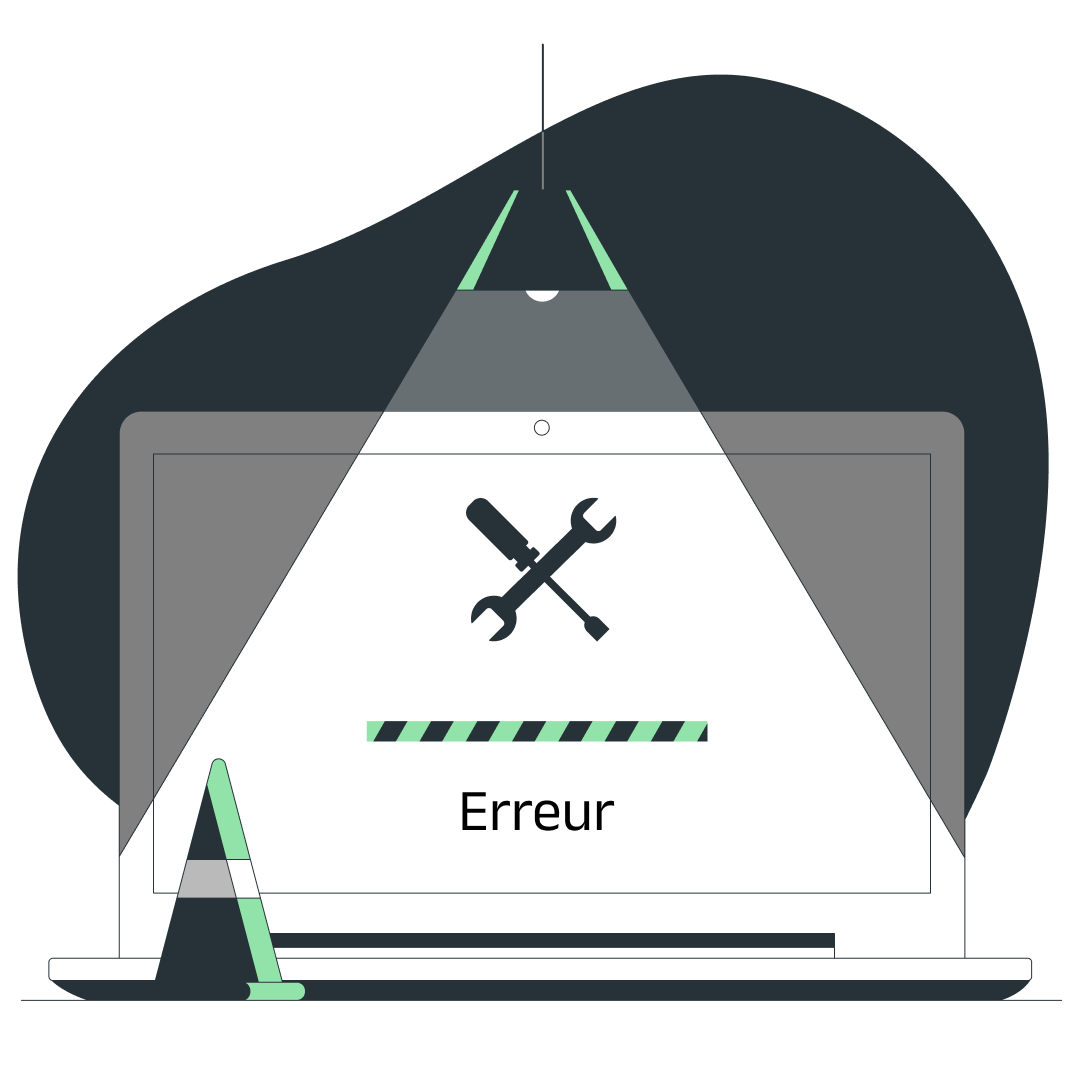
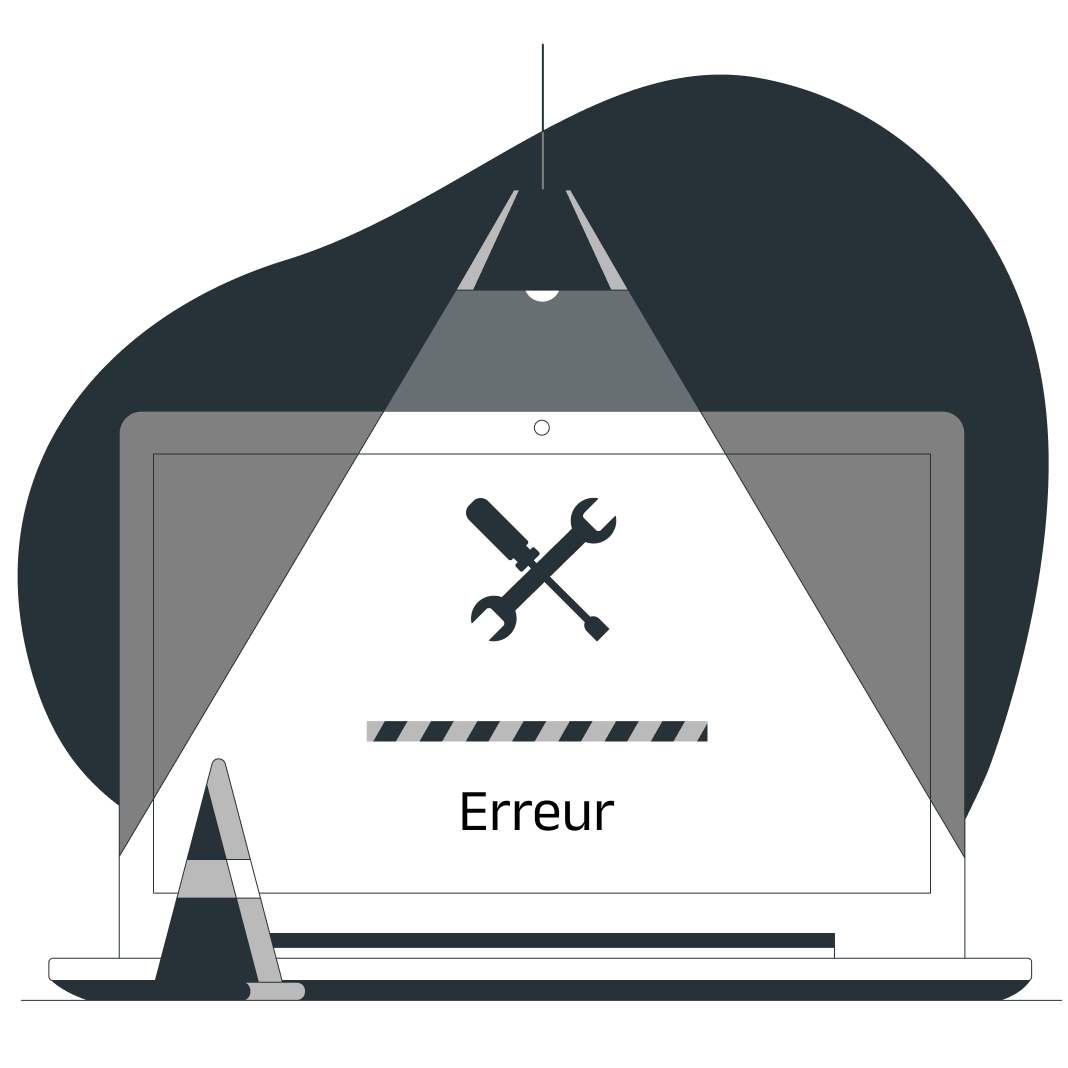
add student static pages and error image-componenent

diff --git a/app/student/pages/schoolrules.tsx b/app/student/pages/schoolrules.tsx
@@ -8,7 +8,7 @@ import LoadingComp from "@/components/LoadingComp";
 import { downloadImage } from "@/lib/downloadImage";
 import ErrorComp from "@/components/ErrorComp";
 
-export default function Planning() {
+export default function SchoolRules() {
   const [image, setImage] = useState("");
   const { data, isPending, isError } = useQuery({
     queryKey: ["planning"],
@@ -39,7 +39,7 @@ export default function Planning() {
   return (
     <View className="bg-white flex-1 items-center">
       <Text className="p-4 font-psemibold text-base text-darkestGray">
-        Emploi du temps
+        Reglement Intérieur
       </Text>
       {!image || !data ? (
         // <BlankComp />
@@ -50,8 +50,8 @@ export default function Planning() {
             <Image
               className={`w-full h-full`}
               source={{ uri: image }}
-              accessibilityLabel="planning table"
               resizeMode="cover"
+              accessibilityLabel="planning table"
             />
           </View>
         </>

diff --git a/app/student/pages/examcalendar.tsx b/app/student/pages/examcalendar.tsx
@@ -8,7 +8,7 @@ import LoadingComp from "@/components/LoadingComp";
 import { downloadImage } from "@/lib/downloadImage";
 import ErrorComp from "@/components/ErrorComp";
 
-export default function Planning() {
+export default function ExamCalendar() {
   const [image, setImage] = useState("");
   const { data, isPending, isError } = useQuery({
     queryKey: ["planning"],
@@ -39,7 +39,7 @@ export default function Planning() {
   return (
     <View className="bg-white flex-1 items-center">
       <Text className="p-4 font-psemibold text-base text-darkestGray">
-        Emploi du temps
+        Calendrier des examens
       </Text>
       {!image || !data ? (
         // <BlankComp />

diff --git a/app/student/pages/profmodule.tsx b/app/student/pages/profmodule.tsx
@@ -8,7 +8,7 @@ import LoadingComp from "@/components/LoadingComp";
 import { downloadImage } from "@/lib/downloadImage";
 import ErrorComp from "@/components/ErrorComp";
 
-export default function Planning() {
+export default function SchoolRules() {
   const [image, setImage] = useState("");
   const { data, isPending, isError } = useQuery({
     queryKey: ["planning"],
@@ -39,7 +39,7 @@ export default function Planning() {
   return (
     <View className="bg-white flex-1 items-center">
       <Text className="p-4 font-psemibold text-base text-darkestGray">
-        Emploi du temps
+        Tableau Prof-matière
       </Text>
       {!image || !data ? (
         // <BlankComp />

diff --git a/app/student/(tabs)/index.tsx b/app/student/(tabs)/index.tsx
@@ -64,7 +64,7 @@ export default function HomeScreen() {
             style={styles.Card}
           >
             <FeatureCard
-              pathTo="planning"
+              pathTo="schoolrules"
               from="student"
               title="Règlement Intérieur"
               icon={
@@ -77,7 +77,7 @@ export default function HomeScreen() {
               description="Consultez les règles et politiques de l’école."
             />
             <FeatureCard
-              pathTo="planning"
+              pathTo="examcalendar"
               from="student"
               title="calendrier des examens"
               icon={

diff --git a/components/ErrorComp.tsx b/components/ErrorComp.tsx
@@ -1,0 +1,17 @@
+import LottieView from "lottie-react-native";
+import { Image, Text, View } from "react-native";
+
+export default function ErrorComp() {
+  return (
+    <View className="w-full flex-1 items-center pt-[25%] bg-white">
+      <Image
+        source={require("@/assets/images/error.png")}
+        resizeMode="contain"
+        className="w-full h-1/2 border"
+      />
+      <Text className="font-pregular text-xl text-center text-disabledGray pt-4">
+        Désolé, une erreur s'est produit
+      </Text>
+    </View>
+  );
+}

diff --git a/app/student/pages/myabsences.tsx b/app/student/pages/myabsences.tsx
@@ -54,7 +54,7 @@ export default function Myabsences() {
   return (
     <>
       <View className="flex-1 bg-white items-center px-4 pt-4">
-        <View className="w-full flex-row justify-between px-2 items-center">
+        <View className="w-full flex-row justify-between px-2 items-center pb-2">
           <Text className="text-lg font-pmedium  text-darkestGray ">
             Absences de : {username}
           </Text>
